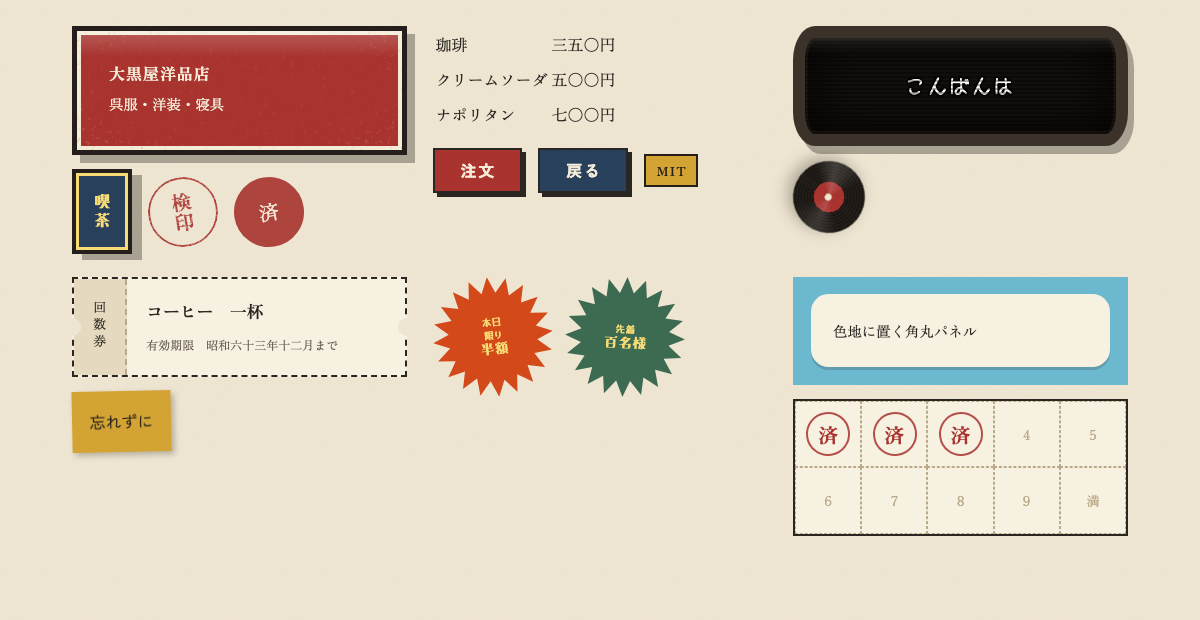
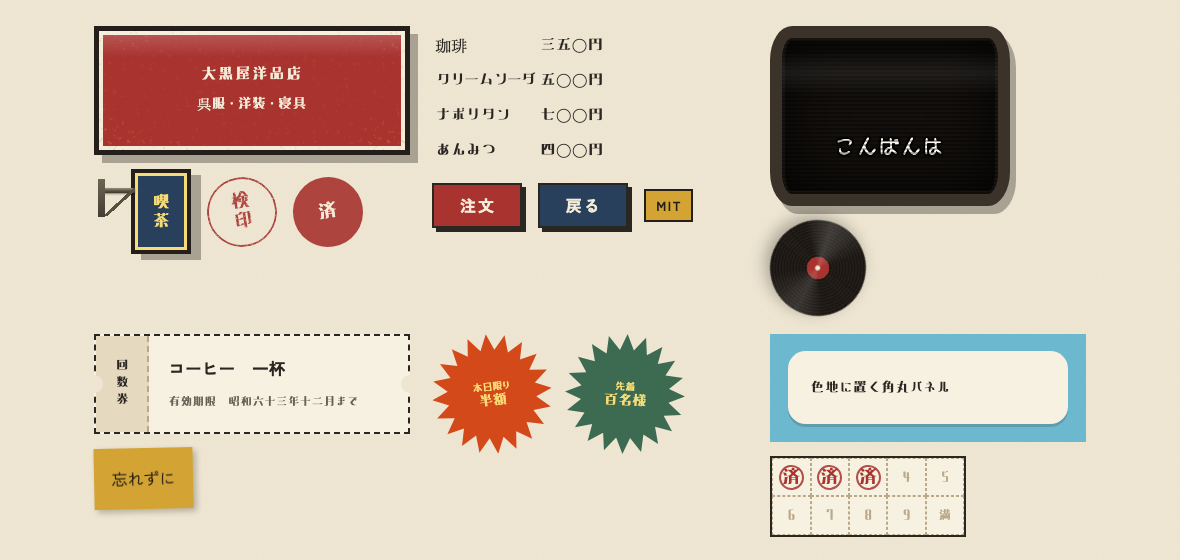
README の紹介画像を撮り直し、画像の陳腐化検査を足す
画像は v2.0.0 のまま10コミット分の意匠変更に取り残されていた。袋文字・訂正線・
二重縁取り・賞状・のれん・POPの寸法・強調の書体・腕金は全部あの画像より後の
変更で、README の看板画像はもう存在しない製品を写していた。

dist・コントラスト表・ドキュメントには陳腐化検査を付けたのに、画像には
付けていなかった。7つ目の穴。tools/check-images.mjs で src/ と tools/hero.html
より画像が古ければ落とす。わざと古くして検出することを確認した。

あわせて構図を現在の部品寸法に合わせた。ブラウン管が 4:3 になって巨大化し、
スタンプカードが固定寸法になって枠外に出ていた。袖看板に腕金も付けた。

配布物（package.json の files）には docs/ も tools/ も入らないので版は上げない。

diff --git a/tools/hero.html b/tools/hero.html
@@ -24,9 +24,9 @@
   .grid {
     display: grid;
     grid-template-columns: repeat(3, 1fr);
-    gap: 1.4rem 1.6rem;
+    gap: 1.1rem 1.4rem;
     align-items: start;
-    max-width: 66rem;
+    max-width: 62rem;
     margin-inline: auto;
   }
   .cell { min-width: 0; display: flex; flex-direction: column; gap: .9rem; align-items: flex-start; }
@@ -41,7 +41,7 @@
       <p style="margin:.35rem 0 0; font-size:.9rem">呉服・洋装・寝具</p>
     </div>
     <div class="sw-row">
-      <span class="sw-sodekanban" style="font-size:1.1rem">喫茶</span>
+      <span class="sw-sodekanban is-udegane" style="font-size:1.1rem">喫茶</span>
       <span class="sw-inkan">検<br>印</span>
       <span class="sw-inkan is-mincho is-beta">済</span>
     </div>
@@ -52,6 +52,7 @@
       <tr><td>珈琲</td><td>三五〇円</td></tr>
       <tr><td>クリームソーダ</td><td>五〇〇円</td></tr>
       <tr><td>ナポリタン</td><td>七〇〇円</td></tr>
+      <tr><td>あんみつ</td><td>四〇〇円</td></tr>
     </table>
     <div class="sw-row">
       <button class="sw-btn is-enji">注文</button>
@@ -61,10 +62,10 @@
   </div>
 
   <div class="cell">
-    <div class="sw-tv is-nagare" style="width:100%">
+    <div class="sw-tv is-nagare" style="width:100%; max-width:15rem; font-size:.9rem">
       <p class="sw-jimaku" style="margin:0">こんばんは</p>
     </div>
-    <span class="sw-record sw-anim-kaiten" style="width:4.5rem"></span>
+    <span class="sw-record sw-anim-kaiten" style="width:6rem"></span>
   </div>
 
   <div class="cell">
@@ -87,7 +88,7 @@
     <div class="sw-bg-mizu" style="padding:1.1rem; width:100%">
       <div class="sw-panel"><p style="margin:0; font-size:.9rem">色地に置く角丸パネル</p></div>
     </div>
-    <div class="sw-stampcard" style="width:100%">
+    <div class="sw-stampcard" style="--sw-masu:2.4rem">
       <span class="masu is-oshita">済</span><span class="masu is-oshita">済</span>
       <span class="masu is-oshita">済</span><span class="masu">4</span><span class="masu">5</span>
       <span class="masu">6</span><span class="masu">7</span><span class="masu">8</span>
